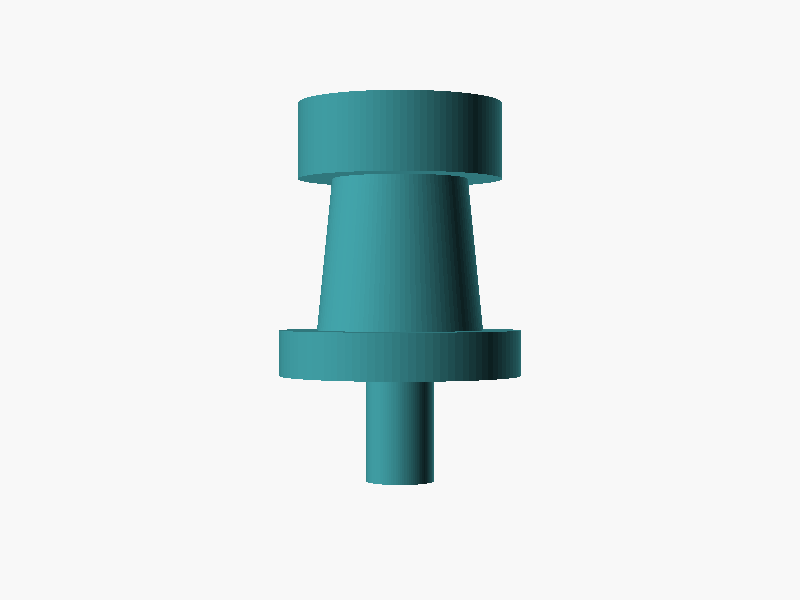
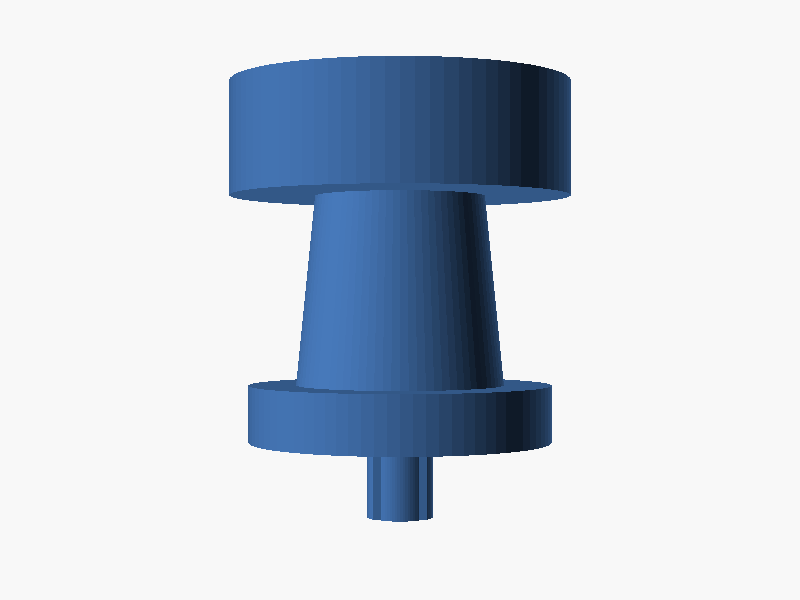
Update 3D model to match actual Xbox 360 joystick: cross-shaped peg, grip ring, updated dimensions and screenshots

Changed region(s): [[0.2812, 0.09, 0.7188, 0.87]]

diff --git a/README.md b/README.md
@@ -3,10 +3,10 @@
 This repository contains 3D printable models for replacement analog sticks for the Xbox 360 controller.
 
 The model faithfully reproduces the shape of the original Xbox 360 analog stick:
-- **Concave thumb cap** – the recessed top surface keeps your thumb centred
+- **Concave thumb cap with grip ring** – the recessed top surface keeps your thumb centred while the raised outer ring provides grip, matching the original knurled edge
 - **Tapered shaft** – widens slightly toward the base for a natural feel
 - **Base skirt** – the wider flange that rests on the controller faceplate
-- **Bottom peg** – the small cylinder that inserts into the potentiometer housing
+- **Cross-shaped bottom peg** – the plus-shaped peg that fits onto the potentiometer shaft, matching the original cross profile
 
 ## Screenshots
 
@@ -23,17 +23,21 @@ The model faithfully reproduces the shape of the original Xbox 360 analog stick:
 
 | Part | Dimension |
 |---|---|
-| Bottom peg diameter | 4.5 mm |
-| Bottom peg height | 7.0 mm |
+| Bottom peg (cross-shaped) diameter | 3.5 mm |
+| Bottom peg arm width | 2.0 mm |
+| Bottom peg height | 4.0 mm |
 | Base / skirt diameter | 16.0 mm |
 | Base / skirt height | 3.0 mm |
 | Shaft diameter (bottom) | 11.0 mm |
 | Shaft diameter (top) | 9.0 mm |
 | Shaft height | 10.0 mm |
-| Thumb cap diameter | 13.5 mm |
+| Thumb cap outer diameter (with grip ring) | 18.0 mm |
+| Thumb cap inner diameter (concave bowl) | 13.5 mm |
 | Thumb cap height | 5.0 mm |
+| Grip ring height | 1.0 mm |
+| Grip ring width | 2.25 mm |
 | Concave top depth | 1.5 mm |
-| **Total height** | **25.0 mm** |
+| **Total height** | **23.0 mm** |
 
 ## Printing Instructions
 
@@ -49,7 +53,7 @@ The model faithfully reproduces the shape of the original Xbox 360 analog stick:
 3. Print the `analog_stick.stl` file.
 4. Insert the bottom peg into the potentiometer housing (may require glue or light sanding for a snug press-fit).
 
-Note: Adjust `peg_diameter` in the `.scad` file if the peg is too loose or too tight for your specific sensor module.
+Note: The cross-shaped peg is designed to match the standard Xbox 360 potentiometer shaft. Adjust `peg_across` and `peg_arm_width` in the `.scad` file if the fit is too loose or too tight for your specific sensor module.
 
 ## Disclaimer
 
